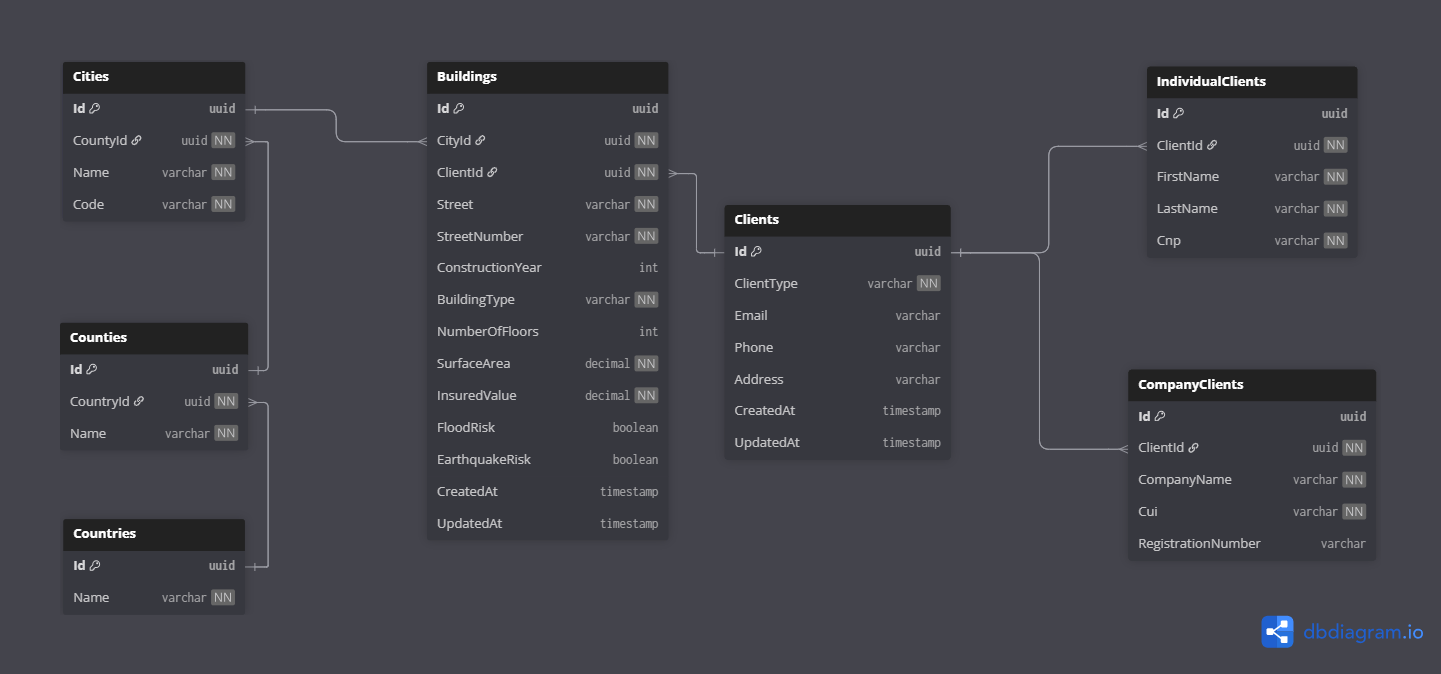
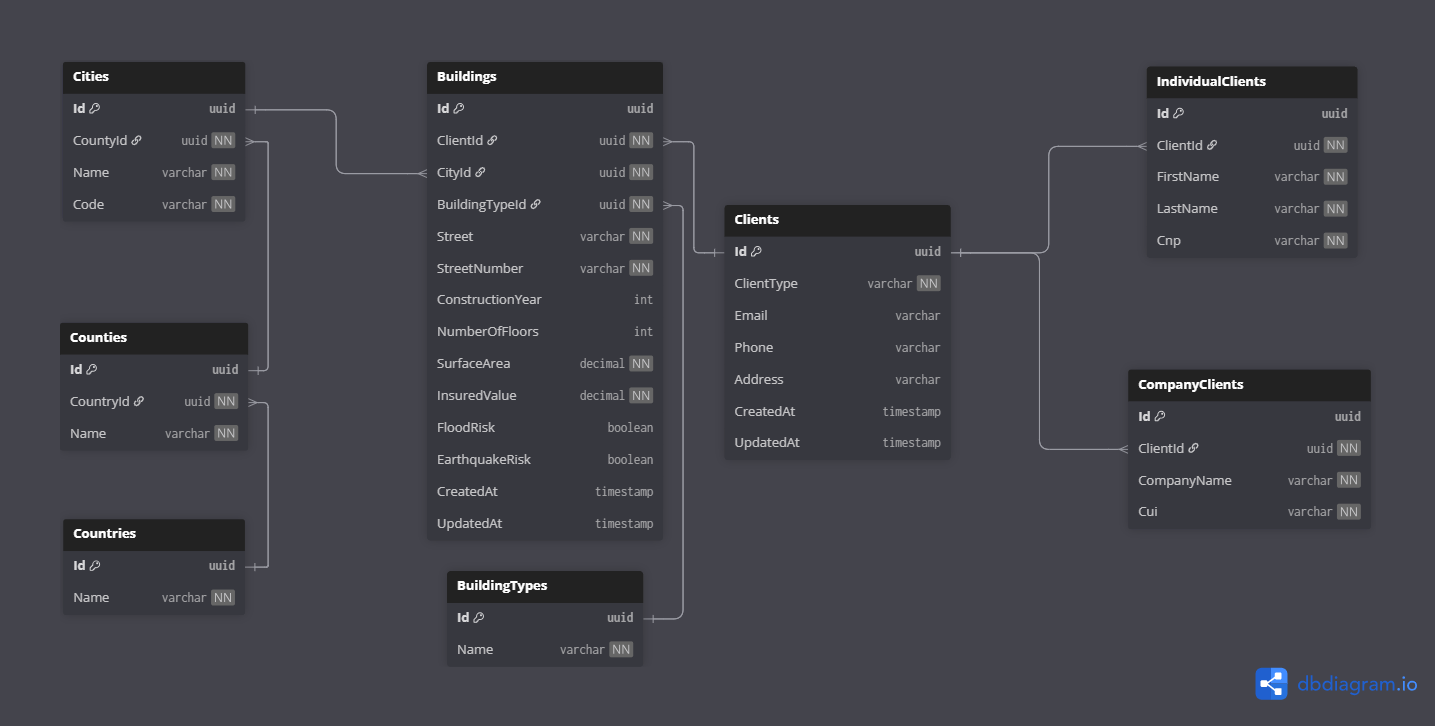
Scaffold EF Core infrastructure
1. Scaffolded DbContext and persistence entities
2. Prepared Infrastructure layer for repositories

diff --git a/FullStack-Projects/InsuranceApp/Insurance.Infrastructure/InsuranceDbContext.cs b/FullStack-Projects/InsuranceApp/Insurance.Infrastructure/InsuranceDbContext.cs
@@ -1,0 +1,178 @@
+using System;
+using System.Collections.Generic;
+using Insurance.Infrastructure.DAOs;
+using Microsoft.EntityFrameworkCore;
+
+namespace Insurance.Infrastructure;
+
+public partial class InsuranceDbContext : DbContext
+{
+    public InsuranceDbContext(DbContextOptions<InsuranceDbContext> options)
+        : base(options)
+    {
+    }
+
+    public virtual DbSet<Building> Buildings { get; set; }
+
+    public virtual DbSet<BuildingType> BuildingTypes { get; set; }
+
+    public virtual DbSet<City> Cities { get; set; }
+
+    public virtual DbSet<Client> Clients { get; set; }
+
+    public virtual DbSet<CompanyClient> CompanyClients { get; set; }
+
+    public virtual DbSet<Country> Countries { get; set; }
+
+    public virtual DbSet<County> Counties { get; set; }
+
+    public virtual DbSet<IndividualClient> IndividualClients { get; set; }
+
+    protected override void OnModelCreating(ModelBuilder modelBuilder)
+    {
+        modelBuilder.Entity<Building>(entity =>
+        {
+            entity.HasKey(e => e.Id).HasName("PK__Building__3214EC07EEAE034F");
+
+            entity.HasIndex(e => e.BuildingTypeId, "IX_Buildings_BuildingTypeId");
+
+            entity.HasIndex(e => e.CityId, "IX_Buildings_CityId");
+
+            entity.HasIndex(e => e.ClientId, "IX_Buildings_ClientId");
+
+            entity.Property(e => e.Id).ValueGeneratedNever();
+            entity.Property(e => e.CreatedAt)
+                .HasPrecision(0)
+                .HasDefaultValueSql("(sysutcdatetime())");
+            entity.Property(e => e.InsuredValue).HasColumnType("decimal(15, 2)");
+            entity.Property(e => e.Street).HasMaxLength(255);
+            entity.Property(e => e.StreetNumber).HasMaxLength(50);
+            entity.Property(e => e.SurfaceArea).HasColumnType("decimal(10, 2)");
+            entity.Property(e => e.UpdatedAt)
+                .HasPrecision(0)
+                .HasDefaultValueSql("(sysutcdatetime())");
+
+            entity.HasOne(d => d.BuildingType).WithMany(p => p.Buildings)
+                .HasForeignKey(d => d.BuildingTypeId)
+                .OnDelete(DeleteBehavior.ClientSetNull)
+                .HasConstraintName("FK_Buildings_BuildingTypes");
+
+            entity.HasOne(d => d.City).WithMany(p => p.Buildings)
+                .HasForeignKey(d => d.CityId)
+                .OnDelete(DeleteBehavior.ClientSetNull)
+                .HasConstraintName("FK_Buildings_Cities");
+
+            entity.HasOne(d => d.Client).WithMany(p => p.Buildings)
+                .HasForeignKey(d => d.ClientId)
+                .OnDelete(DeleteBehavior.ClientSetNull)
+                .HasConstraintName("FK_Buildings_Clients");
+        });
+
+        modelBuilder.Entity<BuildingType>(entity =>
+        {
+            entity.HasKey(e => e.Id).HasName("PK__Building__3214EC07FC579CB9");
+
+            entity.HasIndex(e => e.Name, "UQ__Building__737584F687454467").IsUnique();
+
+            entity.HasIndex(e => e.Name, "UX_BuildingTypes_Name").IsUnique();
+
+            entity.Property(e => e.Id).ValueGeneratedNever();
+            entity.Property(e => e.Name).HasMaxLength(50);
+        });
+
+        modelBuilder.Entity<City>(entity =>
+        {
+            entity.HasKey(e => e.Id).HasName("PK__Cities__3214EC0792C60FD6");
+
+            entity.HasIndex(e => new { e.CountyId, e.Code }, "UX_Cities_County_Code").IsUnique();
+
+            entity.Property(e => e.Id).ValueGeneratedNever();
+            entity.Property(e => e.Code).HasMaxLength(20);
+            entity.Property(e => e.Name).HasMaxLength(100);
+
+            entity.HasOne(d => d.County).WithMany(p => p.Cities)
+                .HasForeignKey(d => d.CountyId)
+                .OnDelete(DeleteBehavior.ClientSetNull)
+                .HasConstraintName("FK_Cities_Counties");
+        });
+
+        modelBuilder.Entity<Client>(entity =>
+        {
+            entity.HasKey(e => e.Id).HasName("PK__Clients__3214EC07E6BCC6D8");
+
+            entity.Property(e => e.Id).ValueGeneratedNever();
+            entity.Property(e => e.Address).HasMaxLength(255);
+            entity.Property(e => e.ClientType).HasMaxLength(20);
+            entity.Property(e => e.CreatedAt)
+                .HasPrecision(0)
+                .HasDefaultValueSql("(sysutcdatetime())");
+            entity.Property(e => e.Email).HasMaxLength(50);
+            entity.Property(e => e.Phone).HasMaxLength(50);
+            entity.Property(e => e.UpdatedAt)
+                .HasPrecision(0)
+                .HasDefaultValueSql("(sysutcdatetime())");
+        });
+
+        modelBuilder.Entity<CompanyClient>(entity =>
+        {
+            entity.HasKey(e => e.Id).HasName("PK__CompanyC__3214EC072D0EBEDE");
+
+            entity.HasIndex(e => e.Cui, "UX_CompanyClients_Cui").IsUnique();
+
+            entity.Property(e => e.Id).ValueGeneratedNever();
+            entity.Property(e => e.CompanyName).HasMaxLength(255);
+            entity.Property(e => e.Cui).HasMaxLength(10);
+
+            entity.HasOne(d => d.Client).WithMany(p => p.CompanyClients)
+                .HasForeignKey(d => d.ClientId)
+                .OnDelete(DeleteBehavior.ClientSetNull)
+                .HasConstraintName("FK_CompanyClients_Clients");
+        });
+
+        modelBuilder.Entity<Country>(entity =>
+        {
+            entity.HasKey(e => e.Id).HasName("PK__Countrie__3214EC0755AB40B5");
+
+            entity.HasIndex(e => e.Name, "UQ__Countrie__737584F68543F973").IsUnique();
+
+            entity.Property(e => e.Id).ValueGeneratedNever();
+            entity.Property(e => e.Name).HasMaxLength(100);
+        });
+
+        modelBuilder.Entity<County>(entity =>
+        {
+            entity.HasKey(e => e.Id).HasName("PK__Counties__3214EC0752AACDA3");
+
+            entity.HasIndex(e => new { e.CountryId, e.Name }, "UX_Counties_Country_Name").IsUnique();
+
+            entity.Property(e => e.Id).ValueGeneratedNever();
+            entity.Property(e => e.Name).HasMaxLength(100);
+
+            entity.HasOne(d => d.Country).WithMany(p => p.Counties)
+                .HasForeignKey(d => d.CountryId)
+                .OnDelete(DeleteBehavior.ClientSetNull)
+                .HasConstraintName("FK_Counties_Countries");
+        });
+
+        modelBuilder.Entity<IndividualClient>(entity =>
+        {
+            entity.HasKey(e => e.Id).HasName("PK__Individu__3214EC07B19DA7DF");
+
+            entity.HasIndex(e => e.Cnp, "UX_IndividualClients_Cnp").IsUnique();
+
+            entity.Property(e => e.Id).ValueGeneratedNever();
+            entity.Property(e => e.Cnp).HasMaxLength(13);
+            entity.Property(e => e.FirstName).HasMaxLength(100);
+            entity.Property(e => e.LastName).HasMaxLength(100);
+
+            entity.HasOne(d => d.Client).WithMany(p => p.IndividualClients)
+                .HasForeignKey(d => d.ClientId)
+                .OnDelete(DeleteBehavior.ClientSetNull)
+                .HasConstraintName("FK_IndividualClients_Clients");
+        });
+
+        OnModelCreatingPartial(modelBuilder);
+    }
+
+    partial void OnModelCreatingPartial(ModelBuilder modelBuilder);
+}

diff --git a/FullStack-Projects/InsuranceApp/Insurance.Infrastructure/DAOs/Building.cs b/FullStack-Projects/InsuranceApp/Insurance.Infrastructure/DAOs/Building.cs
@@ -1,0 +1,41 @@
+using System;
+using System.Collections.Generic;
+
+namespace Insurance.Infrastructure.DAOs;
+
+public partial class Building
+{
+    public Guid Id { get; set; }
+
+    public Guid ClientId { get; set; }
+
+    public Guid CityId { get; set; }
+
+    public Guid BuildingTypeId { get; set; }
+
+    public string Street { get; set; } = null!;
+
+    public string StreetNumber { get; set; } = null!;
+
+    public int? ConstructionYear { get; set; }
+
+    public int? NumberOfFloors { get; set; }
+
+    public decimal SurfaceArea { get; set; }
+
+    public decimal InsuredValue { get; set; }
+
+    public bool FloodRisk { get; set; }
+
+    public bool EarthquakeRisk { get; set; }
+
+    public DateTime CreatedAt { get; set; }
+
+    public DateTime UpdatedAt { get; set; }
+
+    public virtual BuildingType BuildingType { get; set; } = null!;
+
+    public virtual City City { get; set; } = null!;
+
+    public virtual Client Client { get; set; } = null!;
+}

diff --git a/FullStack-Projects/InsuranceApp/Insurance.Infrastructure/DAOs/Client.cs b/FullStack-Projects/InsuranceApp/Insurance.Infrastructure/DAOs/Client.cs
@@ -1,0 +1,27 @@
+using System;
+using System.Collections.Generic;
+
+namespace Insurance.Infrastructure.DAOs;
+
+public partial class Client
+{
+    public Guid Id { get; set; }
+
+    public string ClientType { get; set; } = null!;
+
+    public string? Email { get; set; }
+
+    public string? Phone { get; set; }
+
+    public string? Address { get; set; }
+
+    public DateTime CreatedAt { get; set; }
+
+    public DateTime UpdatedAt { get; set; }
+
+    public virtual ICollection<Building> Buildings { get; set; } = new List<Building>();
+
+    public virtual ICollection<CompanyClient> CompanyClients { get; set; } = new List<CompanyClient>();
+
+    public virtual ICollection<IndividualClient> IndividualClients { get; set; } = new List<IndividualClient>();
+}

diff --git a/FullStack-Projects/InsuranceApp/Insurance.Infrastructure/DAOs/City.cs b/FullStack-Projects/InsuranceApp/Insurance.Infrastructure/DAOs/City.cs
@@ -1,0 +1,19 @@
+using System;
+using System.Collections.Generic;
+
+namespace Insurance.Infrastructure.DAOs;
+
+public partial class City
+{
+    public Guid Id { get; set; }
+
+    public Guid CountyId { get; set; }
+
+    public string Name { get; set; } = null!;
+
+    public string Code { get; set; } = null!;
+
+    public virtual ICollection<Building> Buildings { get; set; } = new List<Building>();
+
+    public virtual County County { get; set; } = null!;
+}

diff --git a/FullStack-Projects/InsuranceApp/Insurance.Infrastructure/DAOs/IndividualClient.cs b/FullStack-Projects/InsuranceApp/Insurance.Infrastructure/DAOs/IndividualClient.cs
@@ -1,0 +1,19 @@
+using System;
+using System.Collections.Generic;
+
+namespace Insurance.Infrastructure.DAOs;
+
+public partial class IndividualClient
+{
+    public Guid Id { get; set; }
+
+    public Guid ClientId { get; set; }
+
+    public string FirstName { get; set; } = null!;
+
+    public string LastName { get; set; } = null!;
+
+    public string Cnp { get; set; } = null!;
+
+    public virtual Client Client { get; set; } = null!;
+}

diff --git a/FullStack-Projects/InsuranceApp/Insurance.Infrastructure/DAOs/County.cs b/FullStack-Projects/InsuranceApp/Insurance.Infrastructure/DAOs/County.cs
@@ -1,0 +1,17 @@
+using System;
+using System.Collections.Generic;
+
+namespace Insurance.Infrastructure.DAOs;
+
+public partial class County
+{
+    public Guid Id { get; set; }
+
+    public Guid CountryId { get; set; }
+
+    public string Name { get; set; } = null!;
+
+    public virtual ICollection<City> Cities { get; set; } = new List<City>();
+
+    public virtual Country Country { get; set; } = null!;
+}

diff --git a/FullStack-Projects/InsuranceApp/Insurance.Infrastructure/DAOs/CompanyClient.cs b/FullStack-Projects/InsuranceApp/Insurance.Infrastructure/DAOs/CompanyClient.cs
@@ -1,0 +1,17 @@
+using System;
+using System.Collections.Generic;
+
+namespace Insurance.Infrastructure.DAOs;
+
+public partial class CompanyClient
+{
+    public Guid Id { get; set; }
+
+    public Guid ClientId { get; set; }
+
+    public string CompanyName { get; set; } = null!;
+
+    public string Cui { get; set; } = null!;
+
+    public virtual Client Client { get; set; } = null!;
+}

diff --git a/FullStack-Projects/InsuranceApp/Insurance.Infrastructure/DAOs/BuildingType.cs b/FullStack-Projects/InsuranceApp/Insurance.Infrastructure/DAOs/BuildingType.cs
@@ -1,0 +1,13 @@
+using System;
+using System.Collections.Generic;
+
+namespace Insurance.Infrastructure.DAOs;
+
+public partial class BuildingType
+{
+    public Guid Id { get; set; }
+
+    public string Name { get; set; } = null!;
+
+    public virtual ICollection<Building> Buildings { get; set; } = new List<Building>();
+}

diff --git a/FullStack-Projects/InsuranceApp/Insurance.Infrastructure/DAOs/Country.cs b/FullStack-Projects/InsuranceApp/Insurance.Infrastructure/DAOs/Country.cs
@@ -1,0 +1,13 @@
+using System;
+using System.Collections.Generic;
+
+namespace Insurance.Infrastructure.DAOs;
+
+public partial class Country
+{
+    public Guid Id { get; set; }
+
+    public string Name { get; set; } = null!;
+
+    public virtual ICollection<County> Counties { get; set; } = new List<County>();
+}
